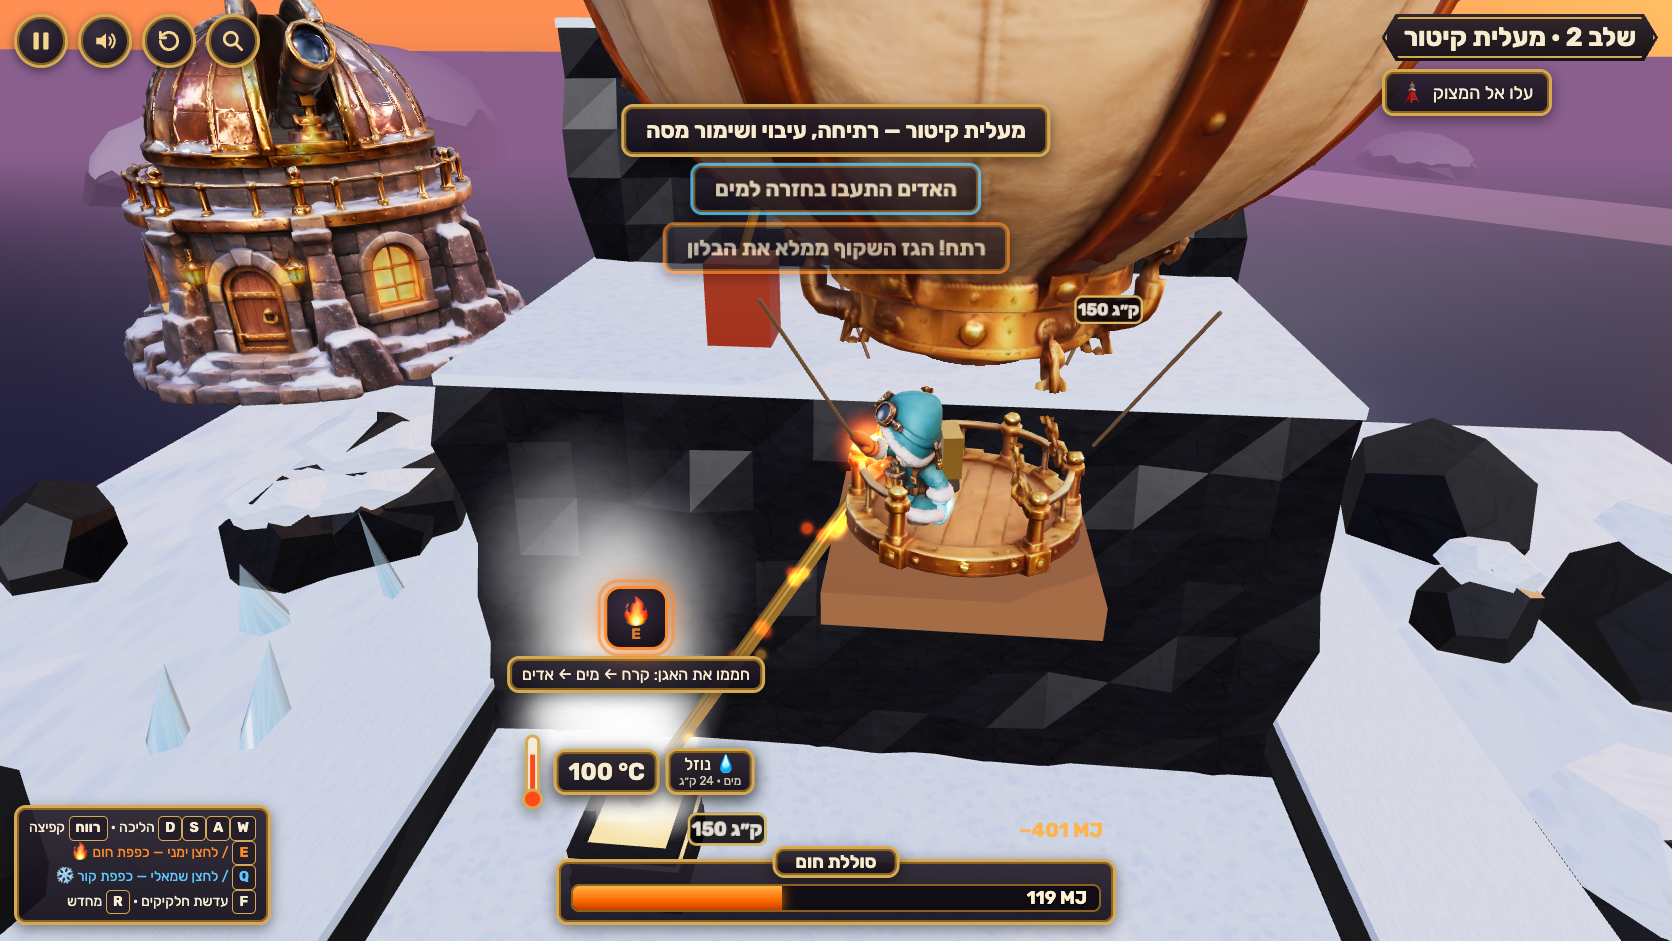
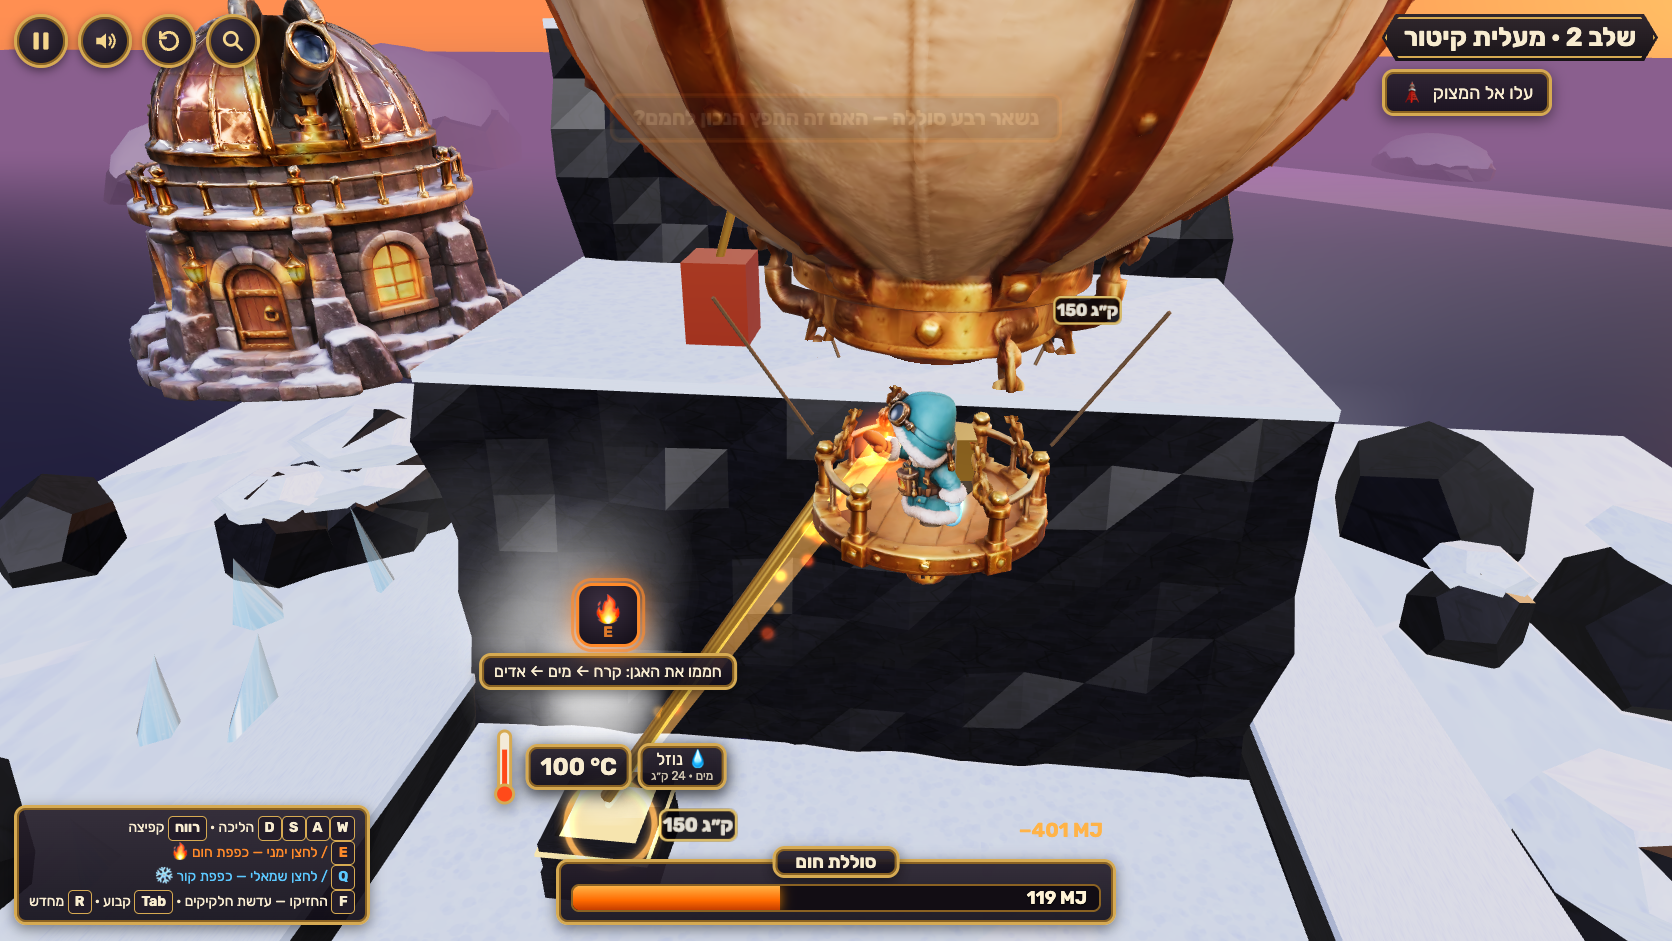
PLAYTEST.md, science review resolution table, progress, final captures

diff --git a/PLAYTEST.md b/PLAYTEST.md
@@ -1,0 +1,49 @@
+# PLAYTEST — Frost & Flame / כפור ולהבה
+
+What was verified, how, and what was not. Automation cannot show that the game is fun or that students learn from it; only real students playing can.
+
+## Verified
+
+- **Unit tests (`npm test`, Vitest): 50 passing.**
+  - Heat model: plateaus at 0 °C, 100 °C and −78.5 °C; Q = m·c·ΔT and Q = m·L; mass never changes in a phase change; energy is conserved through conduction, mass transfer and the glove battery; the gloves stop at an empty or full battery and at temperature limits; conduction never overshoots.
+  - Every level is played by a bot through the same `Input` a player produces (move, jump, heat, cold): each is solved, and the advertised wrong approaches fail. Examples: heating the creek makes no bridge; heating the condenser doesn't refill the tank; the wooden rod's far end stays cold; the white snow latch never melts; ice in the pipe locks the plunger; the big ice lift and the water lift can't get there on the battery; "heat the glacier" empties the battery in level 6.
+  - Water mass is conserved over a minute of random play in every level.
+  - Regressions:
+    - The cold glove can't farm energy from things already at air temperature.
+    - The heat glove doesn't jump to the balloon after boiling the basin dry.
+    - Run-jump sweeps prove neither creek can be jumped; the sweep fails on the old 4.2 m creek.
+    - The level 6 dome is sealed while its latch is frozen.
+    - Boiling never announces condensation.
+    - The water-system total stays constant.
+    - Rods use the shared conduction scale.
+    - The glove can't reach the creek through the ice door.
+- **Real game, real keys:** `scripts/shot.mjs` drives the running game in headless Chrome on the Mac's GPU with real keyboard events and deterministic `advanceTime`. Every level was won from start to exit this way (final run, after all fixes: L1, L3, L4 and L5 won; L2 won with 3★; L6 won with 3★ and 62 MJ left), with zero console errors. Also exercised: recoverable mistakes (falling in the creek, the balloon rising without you, the wrong plunger, the big ice lift draining the battery and getting it back by refreezing), hints, restart, the particle lens, and phone width (390×844 with touch controls).
+- **Frame rate:** `scripts/fps.mjs` measured 120 fps (the display cap) on all six levels at 1600×900 on this Mac (Apple M2 Max, headless Chrome with Metal). Not measured on low-end laptops or phones.
+- **Build:** `npm run build` makes a static bundle with a relative base. It is 772 kB of JS (205 kB gzipped) plus 6.0 MB of models with WebP textures. Nothing is fetched at runtime.
+
+## Independent science review
+
+Full report: `docs/SCIENCE_REVIEW.md`. The reviewer confirmed the model and every energy budget by hand. Every finding was handled; see the resolution table there.
+
+## Fresh-eyes playtest
+
+A helper who hadn't seen the design or code played every level from the screen only (report in the shared notes folder, `frost-flame-playtest.md`). They finished all 6 levels: L1 3★, L2 3★, L3 won, L4 2★, L5 3★, L6 3★. Every deliberate mistake was recoverable. Their best moments were the convection glide, the battery refilling when water freezes, and getting all 200 MJ back by refreezing the big block. The game hot-reloaded during their session, so some early observations predate fixes.
+
+| # | Confusion they reported | Fix |
+|---|---|---|
+| 1 | The camera ended up inside the balloon (L2, L6), inside door-frame walls (L1) and behind the L5 lift: "played blind" | The camera rises over occluders, then pulls in toward the explorer. The balloons, thermometer towers, observatory and lift platforms all count as occluders. |
+| 2 | Couldn't see or control the glove target: L6 creek card shown while the glove said "blocked"; a 0.1 s step flipped the target; L2 heated the copper plate above instead of the basin | A glowing ring marks the target. Anything behind rock or an ice wall is never offered; glass and barred gates still are, because they teach "the glove needs a clear line". Selection is sticky while the target stays in front. High targets are penalised, the hinted object wins, and the condenser can't be worked from the balloon. |
+| 3 | Text piled up: the level banner hid the first hint, toasts stacked three deep and stayed 40 s, hint boxes clipped at edges or covered the battery | The level banner is gone (the plaque says it). Toasts run on game time, at most 2 at once. Hint and gauge boxes are clamped on screen; the hint text no longer squeezes into a column on phones. |
+| 4 | No feedback for plausible wrong choices: white mirror button, E aimed at nothing, battery draining "too fast to notice" | New toasts: the white snow reflects almost all sunlight; the dark stone absorbs it; nothing here to heat or cool; a quarter of the battery left. |
+| 5 | Words: "המראה" read as "the mirror"; lens hold-or-tap unclear; the lens drawn half/half at 27 % ice; win text too dense | The toast now says "מעבר ישיר ממוצק לגז (המראה)…" and the ring reads "מוצק→גז". The legend says "F החזיקו · Tab קבוע". The lens divider follows the real phase fractions. The win card shows one line plus a "למה?" toggle. |
+| — | L6: falling into the creek respawned at the level start | Checkpoints added at the plug passage and at the creek bank. |
+| — | L2: cooling the plate while still on the balloon sank you with the water in the tank (needed R) | The condenser is no longer a target while you stand on the balloon. |
+
+## Known limits
+
+- Fun and learning are unproven until students play.
+- Not tested on real phones or tablets, or on low-end GPUs. Audio was not checked by ear (the WebAudio graph runs without errors).
+- The visuals are plainer than the painterly mockups; see `docs/VISUAL_REVIEW.md`.
+- Some feedback is still text: the toasts and win card are Hebrew-only, with no voice-over.
+- Two levels lean on short reading: the L4 plunger messages and the L5 lift hints. Hints appear after 9 s in levels 3–5 and never in level 6.
+- The energy numbers are honest, but the scale is game-sized: 100 MJ/s gloves, conduction sped up ×30,000 (both stated in the game), and a game-scaled sun mirror (in CURRICULUM.md).

diff --git a/docs/SCIENCE_REVIEW.md b/docs/SCIENCE_REVIEW.md
@@ -178,3 +178,27 @@ Basins draw ice at 917 and water at 1000 kg/m³, and the expansion on freezing i
 - **L3's energy ledger including the sun mirror** (there is no accumulator for mirror input). I confirmed only that the white latch never melts and the dark route works.
 - **Workbook pages beyond the saved snapshots** (e.g. the live quiz items). Terminology checks used only `docs/curriculum/*.md`.
 - **Whether `CURRICULUM.md`'s per-level claims hold in the rendered game for every claim** (e.g. "the wooden rod's near end smokes at 180 °C"). I verified the numbers in the model, not the visuals.
+
+## Resolution (crew lead, 26 Oct 2026)
+
+| # | Status | What changed |
+|---|---|---|
+| 1 | Fixed | Both creeks are 5.0 m wide (900 kg top layer). A run-jump sweep test from every take-off point, including past the edge, finds no landing; the same test fails on the old 4.2 m layout. |
+| 2 | Fixed | `glassWall(z, gateW, top, half)`; level 6 uses half = 6. Test: the dome is sealed while the latch is frozen. |
+| 3 | Fixed | The lens shows the conserved total: for walls `🔒 סה״כ 1063 ק״ג · קרח … + מים שזרמו …`, for drain-linked water `🔒 כל המים במערכת 150 ק״ג · כאן …`. The gauge shows the amount here without a lock. |
+| 4 | Fixed | The lens uses `changeOf()`; a melting wall shows a split lattice/liquid picture whose divider follows the fractions. |
+| 5 | Fixed | Energy direction is tracked from heating/cooling only (mass transfers subtracted). Bodies that only received mass this step emit no phase events. A backward finish needs energy to have really left. Test: boiling never announces condensation. |
+| 6 | Fixed | Toast "…לגז שקוף…"; the L4 takeaway explains the white fog is water droplets and the CO₂ itself is transparent. |
+| 7 | Fixed | One-time notice when the cold glove targets something at air temperature; the battery-empty toast says "חם יותר מהאוויר". |
+| 8 | Fixed | The glove needs line of sight. Rock, other ice walls and closed gates block it (targets behind rock are not offered at all); glass and gates are still targetable to teach the rule. Toast: "הכפפה צריכה קו ישיר…". Test: no creek target through the ice door. |
+| 9, 10 | Fixed | חום סגולי; הקפאה (ring and L1 concept); CURRICULUM.md term list. |
+| 11–17 | Fixed | Wording as proposed (melting toast without gendered label, title line, "כמעט לא נדחסים", "נטענה", "הסידור והמרחקים", pipe-ice wording, "פי 9 בעליית הטמפרטורה"). Slush still pushes at ≥ 50 % liquid (unchanged; stated here). |
+| 18 | Fixed | Temperatures show one decimal below 100 (−78.5 °C). |
+| 19 | Fixed | The L2 tank loses heat slowly to the air; "the steam balloon is insulated" added to CURRICULUM.md. |
+| 20 | Fixed | Rods use `conductance(MATERIALS[mat].k, …)` and material density (test). Tuned contact/loss values are listed in CURRICULUM.md (the plate link is now 3000 kJ/(s·°C) so condensing takes ~4 s). |
+| 21 | Fixed | Title card: "כל כפפה מעבירה עד 100 MJ בשנייה". L3 takeaway states real conduction times (copper ~a day, wood ~years). |
+| 22 | Fixed | L3 iron and wooden benches at the same −8 °C, with a toast explaining that metal only conducts heat from the hand faster. |
+| 23 | Fixed | Gas chip icon is a neutral ◌. |
+| 24 | Accepted | Recovering the balloon's steam energy to afford the water lift is honest; CURRICULUM.md now calls the iron lift "the cheap choice". |
+| 25 | Fixed | The water-ice lattice is drawn more open than the liquid. |
+| 26 | Fixed | The air pipe can't be heated (maxT = air temperature). |

diff --git a/progress.md b/progress.md
@@ -11,8 +11,12 @@
 - Fixes found by playing in the real renderer: overlays ignoring `[hidden]`; false "sublimation" toast from a near-empty body; freezing shown as "melting"; walls hiding the explorer; heat glove re-targeting the balloon after boiling dry; **cold glove farming ~400 MJ from the already-frozen glacier** (now: the cold glove only cools things down to the air temperature); melting walls never showing their 0 °C plateau ring; phone-width layout.
 - **Ports:** 5202 turned out to be held by another project's dev server (`clockwork-alibi`). The lead session assigned this game **5232 (dev) / 4232 (preview)** for good.
 
+- **Independent science review** (`docs/SCIENCE_REVIEW.md`): model and budgets confirmed; 2 bypasses (jumpable creek, way around the L6 glass) and 24 smaller findings — all fixed or accepted, with tests (resolution table in the review).
+- **Fresh-eyes playtest**: finished all 6 levels; top confusions (camera inside objects, unclear targeting, text pile-up, missing feedback, wording) fixed — see `PLAYTEST.md`.
+- Final real-key run in the browser: all six levels won, zero console errors. 50 tests pass.
+
 ## Open / next
 
-- Independent science review → `docs/SCIENCE_REVIEW.md` (in progress).
-- Fresh-eyes playtest → `PLAYTEST.md` (in progress).
-- Visual review against the mockups → `docs/VISUAL_REVIEW.md`.
+- Real students on real devices (fun and learning are unproven).
+- Low-end GPU / phone performance check.
+- Optional: richer set dressing to get closer to the painterly mockups; voice-over.
